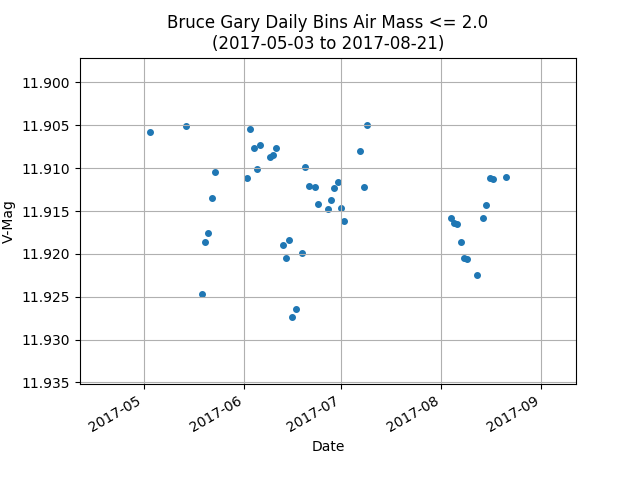
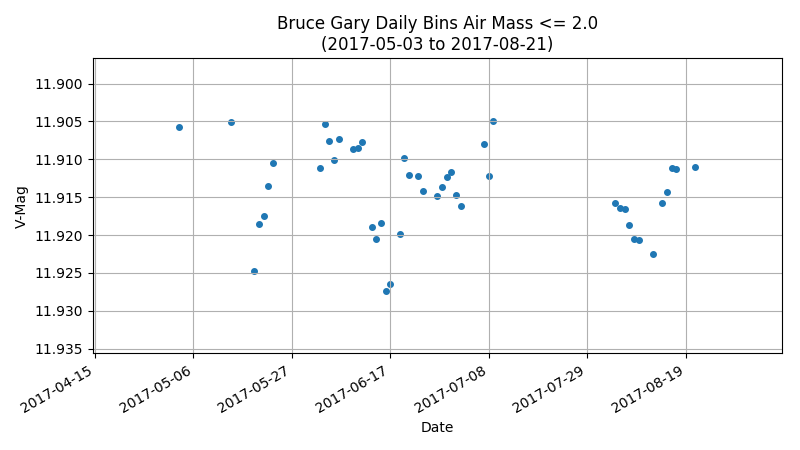
improved figure sizing

diff --git a/combine_data.py b/combine_data.py
@@ -75,11 +75,15 @@ def scatter_plot(combined, plot_name, plot_title, marker_size):
     start_date = x[0]
     end_date = x[len(x)-1]
     title = plot_title + "\n(" + str(start_date) + " to " + str(end_date) + ")"
+    # default scale is 1 in your original case, scales with other cases:
+
     plt.title(title)
     plt.gca().invert_yaxis()
     plt.gcf().autofmt_xdate()
     plt.grid()
     plt.scatter(x,y,s=marker_size,marker='o')
+    plt.tight_layout()
+    plt.rcParams["figure.figsize"] = (8,4.5)
     plt.savefig("SavedPlots/" + plot_name + ".png")
     plt.show()
 
